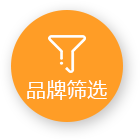
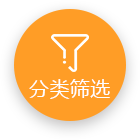
待定

diff --git a/pages/classify/index.js b/pages/classify/index.js
@@ -30,8 +30,10 @@ Page({
     value: '全部',
     pro_type: [],
     ping_type: [],
-    selectPro: '-1',
-    selectPing: '-1',
+    series_type: [],
+    selectPro: 0,
+    selectPing: 0,
+    selectSeries: 0,
     deviceHeight: 500
 
   },
@@ -40,9 +42,7 @@ Page({
    * 生命周期函数--监听页面加载
    */
   onLoad: function (options) {
-    this.getProType()
     this.getPingType()
-    this.getProducts(1, 10)
   },
   showInput: function () {
     wx.navigateTo({
@@ -69,16 +69,35 @@ Page({
     this.setData({
       selectPro: e.currentTarget.dataset.index
     });
-    this.getProducts(1, 10)
+    this.getSeriesType(this.data.pro_type[this.data.selectPro].bianma)
+
   },
-  getProType() {
+  getSeriesType(code) {
     var that = this
-    http.httpPost('/app/common/dic/subcollection', { code: ''},{},function(res){
+    http.httpPost('/app/common/dic/subcollection', { code: code }, {}, function (res) {
+      if (res.code == '000000') {
+        util.upperListKey(res.data)
+        that.setData({
+          serise_type: res.data,
+          selectSerise: 0
+        })
+        that.getProducts(1, 10)
+      }
+    })
+  },
+  getProType(code) {
+    var that = this
+    http.httpPost('/app/common/dic/subcollection', { code: code },{},function(res){
       if(res.code == '000000') {
         util.upperListKey(res.data)
         that.setData({
-          pro_type: res.data
+          pro_type: res.data,
+          selectPro: 0
         })
+        if (that.data.pro_type != null && that.data.pro_type.length > 0) {
+          that.getSeriesType(that.data.pro_type[0].bianma)
+        }
+        
       }
     })
   },
@@ -88,14 +107,19 @@ Page({
       if (res.code == '000000') {
         util.upperListKey(res.data)
         that.setData({
-          ping_type: res.data
+          ping_type: res.data,
+          selectPing: 0
         })
+        if (that.data.ping_type != null && that.data.ping_type.length > 0) {
+          that.getProType(that.data.ping_type[0].bianma)
+        }
+        
       }
     })
   },
   selectPing() {
     var that = this
-    var itemList = ['全部']
+    var itemList = []
     for(var i=0;i< this.data.ping_type.length;i++){
       itemList.push(this.data.ping_type[i].name)
     }
@@ -104,9 +128,9 @@ Page({
       success: function (res) {
         if (!res.cancel) {
           that.setData({
-            selectPing: res.tapIndex - 1
+            selectPing: res.tapIndex
           })
-          that.getProducts(1, 10)
+          that.getProType(that.data.ping_type[that.data.selectPing].bianma)
         }
       }
     });
@@ -117,11 +141,14 @@ Page({
       currentPage: currentPage, 
       showCount: showCount
     }
-    if (this.data.selectPro != '-1' && this.data.selectPro != -1) {
+    if (this.data.pro_type != null && this.data.pro_type.length > 0) {
       data.BRAND_ID = this.data.pro_type[this.data.selectPro].bianma
     }
-    if (this.data.selectPing != '-1' && this.data.selectPing != -1) {
+    if (this.data.ping_type != null && this.data.ping_type.length > 0) {
       data.PRODUCT_TYPE_ID = this.data.ping_type[this.data.selectPing].bianma
+    }
+    if (this.data.series_type != null && this.data.series_type.length > 0) {
+      data.SERIES_ID = this.data.series_type[this.data.selectSeries].bianma
     }
     http.httpPost("/app/product/list", data, {}, function (res) {
       if(res.code == '000000') {
